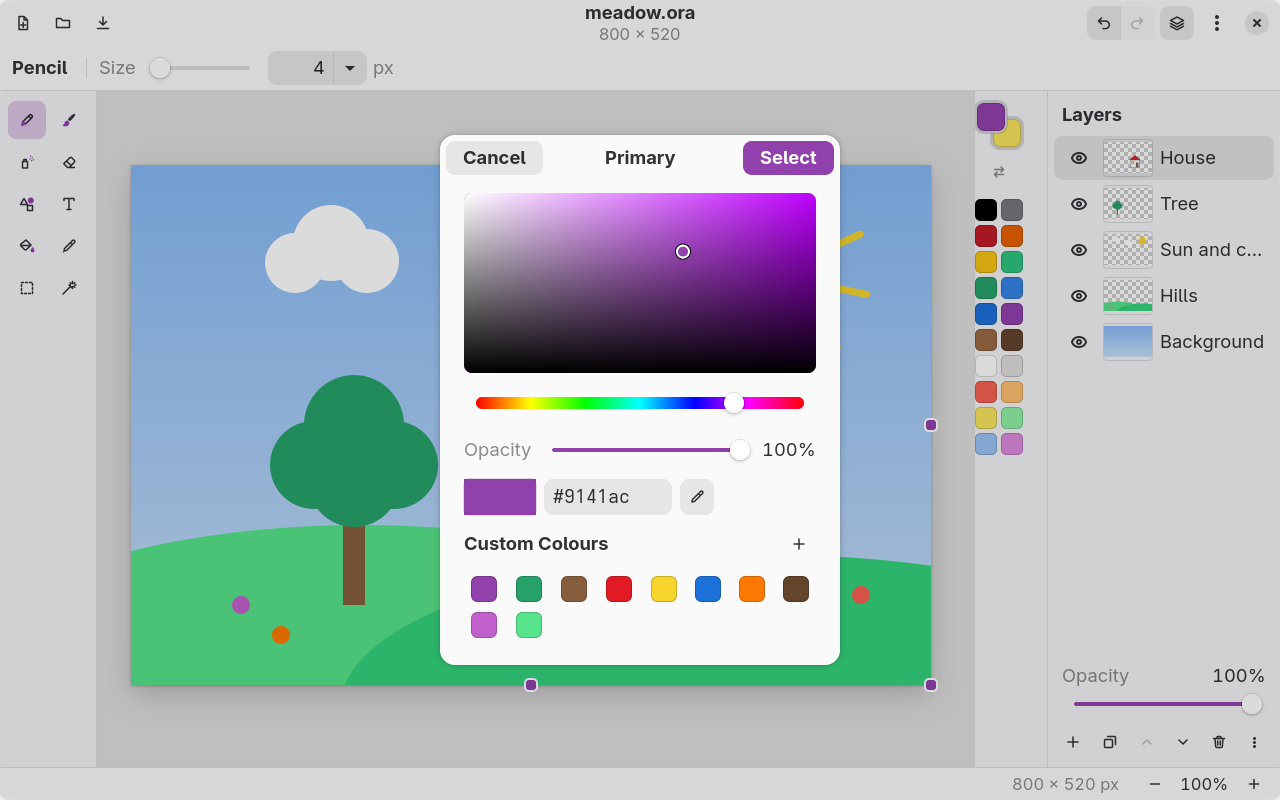
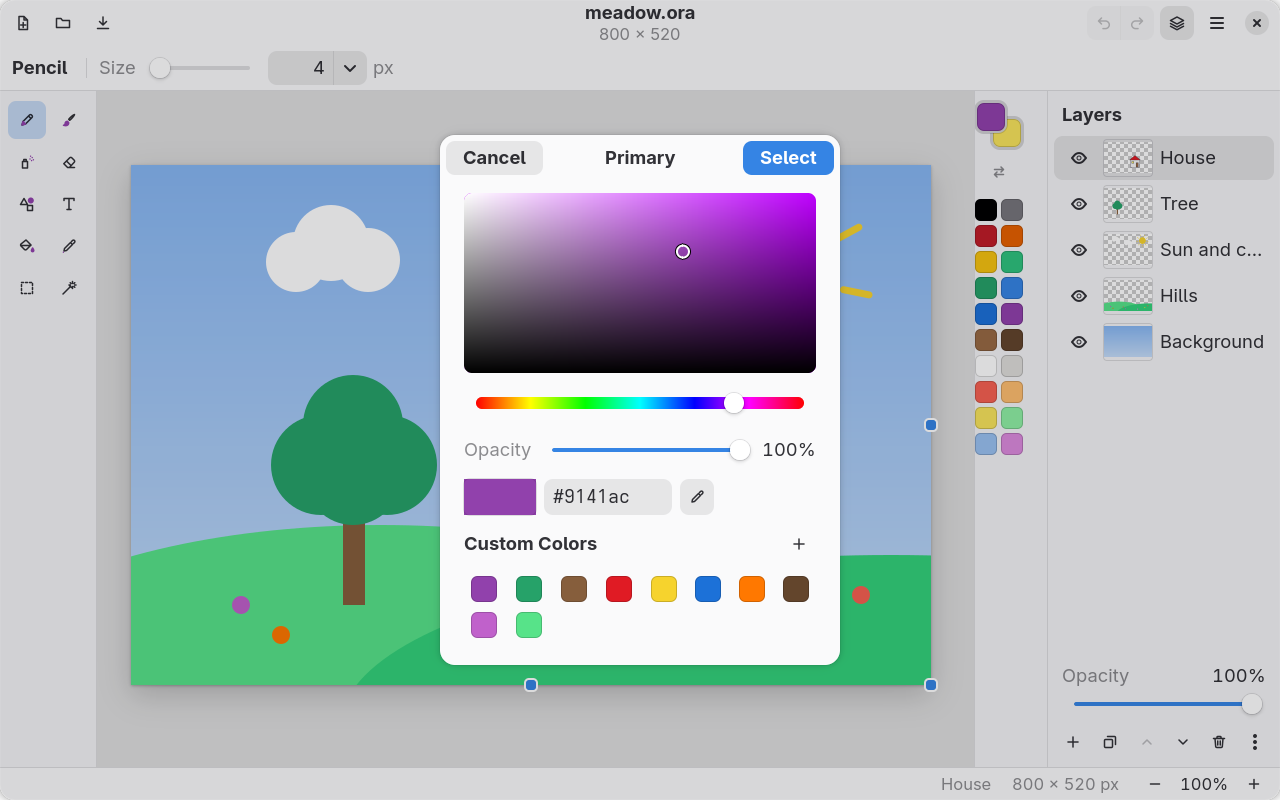
Bump the version to 2.1.0, with the notes and screenshots for it
The screenshots are taken afresh, by a script that now lives in
build-aux: the Shapes options show their Style button, the status bar
names the layer in hand, and the colour editor spells Custom Colors as
the rest of the interface does.

diff --git a/build-aux/screenshots.py b/build-aux/screenshots.py
@@ -1,0 +1,307 @@
+#!/usr/bin/env python3
+# SPDX-FileCopyrightText: 2026 Rafael Rueda
+# SPDX-License-Identifier: GPL-3.0-or-later
+
+"""Take the screenshots the README, the user guide and the app metadata show.
+
+    python build-aux/screenshots.py            # all four, into data/screenshots/
+    python build-aux/screenshots.py dark-style # one of them
+
+Each is the real window, 1280 × 800, with a picture painted for the purpose,
+rendered by GTK itself rather than grabbed off the screen. They are taken in a
+headless compositor, so no window appears on the desktop, each in a process of
+its own with settings of its own: neither the desktop's font and dark setting
+nor Tempera's remembered options get into the picture.
+"""
+
+from __future__ import annotations
+
+import math
+import os
+import subprocess
+import sys
+import tempfile
+import time
+from pathlib import Path
+
+ROOT = Path(__file__).resolve().parent.parent
+OUTPUT = ROOT / "data" / "screenshots"
+SIZE = (1280, 800)
+DISPLAY = "tempera-screenshots"
+SHOTS = ("main-window", "dark-style", "interface-size", "color-editor")
+
+
+def take_all(names: tuple[str, ...]) -> int:
+    """Start a compositor nobody sees, and take each screenshot in it."""
+    compositor = subprocess.Popen(
+        ["mutter", "--headless", "--wayland-display", DISPLAY, "--virtual-monitor", "1920x1080", "--no-x11"],
+        stdout=subprocess.DEVNULL,
+        stderr=subprocess.DEVNULL,
+    )
+    try:
+        socket = Path(os.environ["XDG_RUNTIME_DIR"]) / DISPLAY
+        deadline = time.monotonic() + 10
+        while not socket.exists() and time.monotonic() < deadline:
+            time.sleep(0.1)
+        failed = 0
+        for name in names:
+            with tempfile.TemporaryDirectory() as home:
+                environment = dict(
+                    os.environ,
+                    WAYLAND_DISPLAY=DISPLAY,
+                    GDK_BACKEND="wayland",
+                    XDG_CONFIG_HOME=f"{home}/config",
+                    XDG_DATA_HOME=f"{home}/data",
+                    TEMPERA_SHOT=name,
+                )
+                result = subprocess.run([sys.executable, __file__], env=environment, timeout=60)
+                print(f"{name}: {'taken' if result.returncode == 0 else 'FAILED'}")
+                failed += result.returncode != 0
+        return failed
+    finally:
+        compositor.terminate()
+
+
+# From here on, inside the process that takes one screenshot.
+
+
+class Gesture:
+    def __init__(self, gdk):
+        self._gdk = gdk
+
+    def get_current_button(self):
+        return self._gdk.BUTTON_PRIMARY
+
+    def get_current_event_state(self):
+        return self._gdk.ModifierType(0)
+
+
+def meadow(cairo, document_module):
+    """A meadow with a house, a tree and the sun, each on a layer of its own."""
+    from tempera.document import Document, Layer, new_surface
+
+    width, height = 800, 520
+
+    def layer(name, paint):
+        surface = new_surface(width, height, (0, 0, 0, 0))
+        paint(cairo.Context(surface))
+        return Layer(surface, name)
+
+    def rgb(cr, spec):
+        cr.set_source_rgb(*(int(spec[i:i + 2], 16) / 255 for i in (1, 3, 5)))
+
+    def background(cr):
+        sky = cairo.LinearGradient(0, 0, 0, height)
+        sky.add_color_stop_rgb(0, 0x86 / 255, 0xB6 / 255, 0xF2 / 255)
+        sky.add_color_stop_rgb(1, 0xC4 / 255, 0xDC / 255, 0xF9 / 255)
+        cr.set_source(sky)
+        cr.paint()
+
+    def hills(cr):
+        for spec, cx, cy, rx, ry in (("#57e389", 250, 520, 420, 160), ("#33d17a", 760, 560, 550, 170)):
+            rgb(cr, spec)
+            cr.save()
+            cr.translate(cx, cy)
+            cr.scale(rx, ry)
+            cr.arc(0, 0, 1, 0, 2 * math.pi)
+            cr.restore()
+            cr.fill()
+        for spec, x, y in (
+            ("#c061cb", 110, 440), ("#ff7800", 150, 470), ("#f66151", 320, 450), ("#c061cb", 360, 480),
+            ("#dc8add", 560, 485), ("#f6d32d", 680, 460), ("#f66151", 730, 430),
+        ):
+            rgb(cr, spec)
+            cr.arc(x, y, 9, 0, 2 * math.pi)
+            cr.fill()
+
+    def sun_and_clouds(cr):
+        rgb(cr, "#f6d32d")
+        cr.arc(640, 110, 56, 0, 2 * math.pi)
+        cr.fill()
+        cr.set_line_width(7)
+        cr.set_line_cap(cairo.LINE_CAP_ROUND)
+        for ray in range(9):
+            angle = ray * 2 * math.pi / 9 + 0.2
+            cr.move_to(640 + 74 * math.cos(angle), 110 + 74 * math.sin(angle))
+            cr.line_to(640 + 100 * math.cos(angle), 110 + 100 * math.sin(angle))
+        cr.stroke()
+        cr.set_source_rgb(1, 1, 1)
+        for x, y, radius in ((165, 97, 30), (200, 78, 38), (237, 95, 32), (373, 157, 30), (410, 138, 38), (447, 155, 32)):
+            cr.arc(x, y, radius, 0, 2 * math.pi)
+            cr.fill()
+
+    def tree(cr):
+        rgb(cr, "#865e3c")
+        cr.rectangle(212, 350, 22, 90)
+        cr.fill()
+        rgb(cr, "#26a269")
+        for x, y, radius in ((222, 260, 50), (190, 300, 50), (256, 300, 50), (222, 312, 48)):
+            cr.arc(x, y, radius, 0, 2 * math.pi)
+            cr.fill()
+
+    def house(cr):
+        cr.set_line_width(5)
+        cr.set_line_join(cairo.LINE_JOIN_ROUND)
+        for spec, shape in (
+            ("#f6f5f4", lambda: cr.rectangle(440, 300, 150, 120)),
+            ("#e01b24", lambda: (cr.move_to(425, 300), cr.line_to(515, 225), cr.line_to(607, 300), cr.close_path())),
+            ("#f9f06b", lambda: cr.rectangle(462, 325, 34, 30)),
+            ("#986a44", lambda: cr.rectangle(535, 345, 36, 72)),
+        ):
+            shape()
+            rgb(cr, spec)
+            cr.fill_preserve()
+            rgb(cr, "#3d3846")
+            cr.stroke()
+
+    return Document(
+        layers=[
+            layer("Background", background),
+            layer("Hills", hills),
+            layer("Sun and clouds", sun_and_clouds),
+            layer("Tree", tree),
+            layer("House", house),
+        ]
+    )
+
+
+def take_one(name: str) -> int:
+    sys.path.insert(0, str(ROOT))
+    import gi
+
+    gi.require_version("Gtk", "4.0")
+    gi.require_version("Gdk", "4.0")
+    gi.require_version("Adw", "1")
+    import cairo
+    from gi.repository import Adw, Gdk, Gio, GLib, Graphene, Gtk
+
+    from tempera import document as document_module
+    from tempera import settings
+    from tempera.color import rgba
+    from tempera.main import TemperaApplication
+
+    if name == "interface-size":
+        settings.save_settings({"interface-size": "150"})
+
+    app = TemperaApplication()
+    app.set_flags(app.get_flags() | Gio.ApplicationFlags.NON_UNIQUE)
+    status = {"code": 1}
+
+    def tool(window, tool_id):
+        window.lookup_action("tool").change_state(GLib.Variant.new_string(tool_id))
+
+    def drag(canvas, start, end):
+        gesture = Gesture(Gdk)
+        offset = ((end[0] - start[0]) * canvas.zoom, (end[1] - start[1]) * canvas.zoom)
+        canvas._on_drag_begin(gesture, start[0] * canvas.zoom, start[1] * canvas.zoom)
+        canvas._on_drag_update(gesture, *offset)
+        canvas._on_drag_end(gesture, *offset)
+
+    def open_picture(window) -> None:
+        document = meadow(cairo, document_module)
+        document.file = Gio.File.new_for_path("/tmp/meadow.ora")
+        window._set_document(document)
+        window.colors.primary, window.colors.secondary = rgba("#9141ac"), rgba("#f8e45c")
+        if name == "interface-size":
+            window.lookup_action("layers-panel").change_state(GLib.Variant.new_boolean(False))
+
+    def stage(window) -> None:
+        """What the screenshot is of, once the window has laid itself out around the picture:
+        what floats holds the canvas where it is, so it must be in its place first."""
+        canvas, colors, document = window.canvas, window.colors, window.canvas.document
+
+        if name == "main-window":
+            colors.recent = [rgba(spec) for spec in ("#9141ac", "#26a269", "#865e3c", "#f66151", "#f8e45c", "#3584e4")]
+            window._color_bar.refresh()
+            tool(window, "brush")
+            window._size_adjustment.set_value(14)
+            document.select_layer(1)
+            cr = cairo.Context(document.surface)
+            cr.set_source_rgb(0x91 / 255, 0x41 / 255, 0xAC / 255)
+            cr.set_line_width(14)
+            cr.set_line_cap(cairo.LINE_CAP_ROUND)
+            cr.set_line_join(cairo.LINE_JOIN_ROUND)
+            cr.move_to(70, 330)
+            for point in ((78, 305), (92, 330), (110, 300), (128, 330), (140, 315)):
+                cr.line_to(*point)
+            cr.stroke()
+            document._changed(None, layers=True)
+        elif name == "dark-style":
+            tool(window, "select")
+            document.select_layer(2)
+            canvas.select_region(530, 0, 220, 220)
+            grip = canvas._handles()["rotate"]
+            # A twelfth of a turn clockwise about the middle of the selection.
+            centre = (640, 110)
+            radius = centre[1] - grip[1]
+            angle = math.radians(30)
+            drag(canvas, grip, (centre[0] + radius * math.sin(angle), centre[1] - radius * math.cos(angle)))
+            # And carried a little way in from the edge, so all of it shows.
+            drag(canvas, centre, (centre[0] - 50, centre[1] + 60))
+        elif name == "interface-size":
+            tool(window, "shapes")
+            window.lookup_action("shape").change_state(GLib.Variant.new_string("star"))
+            window._size_adjustment.set_value(6)
+            window._fill_toggle.set_active(True)
+            window.lookup_action("line-style").change_state(GLib.Variant.new_string("dashed"))
+            # The whole picture in view, at this size of everything around it.
+            canvas.set_zoom(0.75)
+            drag(canvas, (610, 330), (760, 480))
+        elif name == "color-editor":
+            tool(window, "pencil")
+            colors.custom = [
+                rgba(spec)
+                for spec in ("#9141ac", "#26a269", "#865e3c", "#e01b24", "#f6d32d", "#1c71d8",
+                             "#ff7800", "#63452c", "#c061cb", "#57e389")
+            ]
+            window._color_bar.choose(True)
+
+    def capture(window) -> bool:
+        width, height = window.get_width(), window.get_height()
+        snapshot = Gtk.Snapshot()
+        Gtk.WidgetPaintable.new(window).snapshot(snapshot, width, height)
+        node = snapshot.to_node()
+        texture = window.get_renderer().render_texture(node, Graphene.Rect().init(0, 0, width, height))
+        OUTPUT.mkdir(parents=True, exist_ok=True)
+        texture.save_to_png(str(OUTPUT / f"{name}.png"))
+        status["code"] = 0 if (width, height) == SIZE else 2
+        if status["code"]:
+            print(f"{name}: the window came out {width} × {height}, not {SIZE[0]} × {SIZE[1]}", file=sys.stderr)
+        app.quit()
+        return GLib.SOURCE_REMOVE
+
+    def on_activate(_app) -> None:
+        # The fonts and style the screenshots have always had, whatever this desktop uses.
+        Gtk.Settings.get_default().props.gtk_font_name = "Adwaita Sans 11"
+        Adw.StyleManager.get_default().set_color_scheme(
+            Adw.ColorScheme.FORCE_DARK if name == "dark-style" else Adw.ColorScheme.FORCE_LIGHT
+        )
+        window = app.props.active_window
+        window.set_default_size(*SIZE)
+
+        def opened() -> bool:
+            open_picture(window)
+            GLib.timeout_add(800, staged)
+            return GLib.SOURCE_REMOVE
+
+        def staged() -> bool:
+            stage(window)
+            GLib.timeout_add(1500, capture, window)
+            return GLib.SOURCE_REMOVE
+
+        GLib.timeout_add(1000, opened)
+
+    app.connect_after("activate", on_activate)
+    app.run([])
+    return status["code"]
+
+
+if __name__ == "__main__":
+    shot = os.environ.get("TEMPERA_SHOT")
+    if shot:
+        sys.exit(take_one(shot))
+    wanted = tuple(sys.argv[1:]) or SHOTS
+    unknown = [each for each in wanted if each not in SHOTS]
+    if unknown:
+        sys.exit(f"No such screenshot: {', '.join(unknown)}. There are: {', '.join(SHOTS)}")
+    sys.exit(take_all(wanted))

diff --git a/tempera/__init__.py b/tempera/__init__.py
@@ -3,4 +3,4 @@
 
 APP_ID = "io.github.rafael0rueda.Tempera"
 APP_NAME = "Tempera"
-VERSION = "2.0.1"
+VERSION = "2.1.0"

diff --git a/USER_GUIDE.md b/USER_GUIDE.md
@@ -527,4 +527,4 @@ image itself and the file dialogs, which the desktop draws, keep their usual siz
 the window is too small for everything at a big size, the tool options, the sidebar and
 the palette scroll.
 
-![Tempera at 150% interface size, with the Shapes tool selected and its nine shapes, the size, the Outline and Fill buttons and the outline styles in the bar above the canvas, and a filled star with a dashed outline just drawn on a meadow, waiting in a dashed box with a grip on each corner and side](data/screenshots/interface-size.png)
+![Tempera at 150% interface size, with the Shapes tool selected and its nine shapes, the size, the Outline, Fill and Style buttons in the bar above the canvas, and a filled star with a dashed outline just drawn on a meadow, waiting in a dashed box with a grip on each corner and side](data/screenshots/interface-size.png)

diff --git a/README.md b/README.md
@@ -36,7 +36,7 @@ Each [release](https://github.com/rafael0rueda/tempera/releases) has a Flatpak b
 attached. Download `Tempera-<version>-x86_64.flatpak` and install it for your user:
 
 ```
-flatpak install --user Tempera-2.0.1-x86_64.flatpak
+flatpak install --user Tempera-2.1.0-x86_64.flatpak
 ```
 
 It runs on the GNOME 50 runtime, which Flatpak offers to fetch from Flathub if you do
